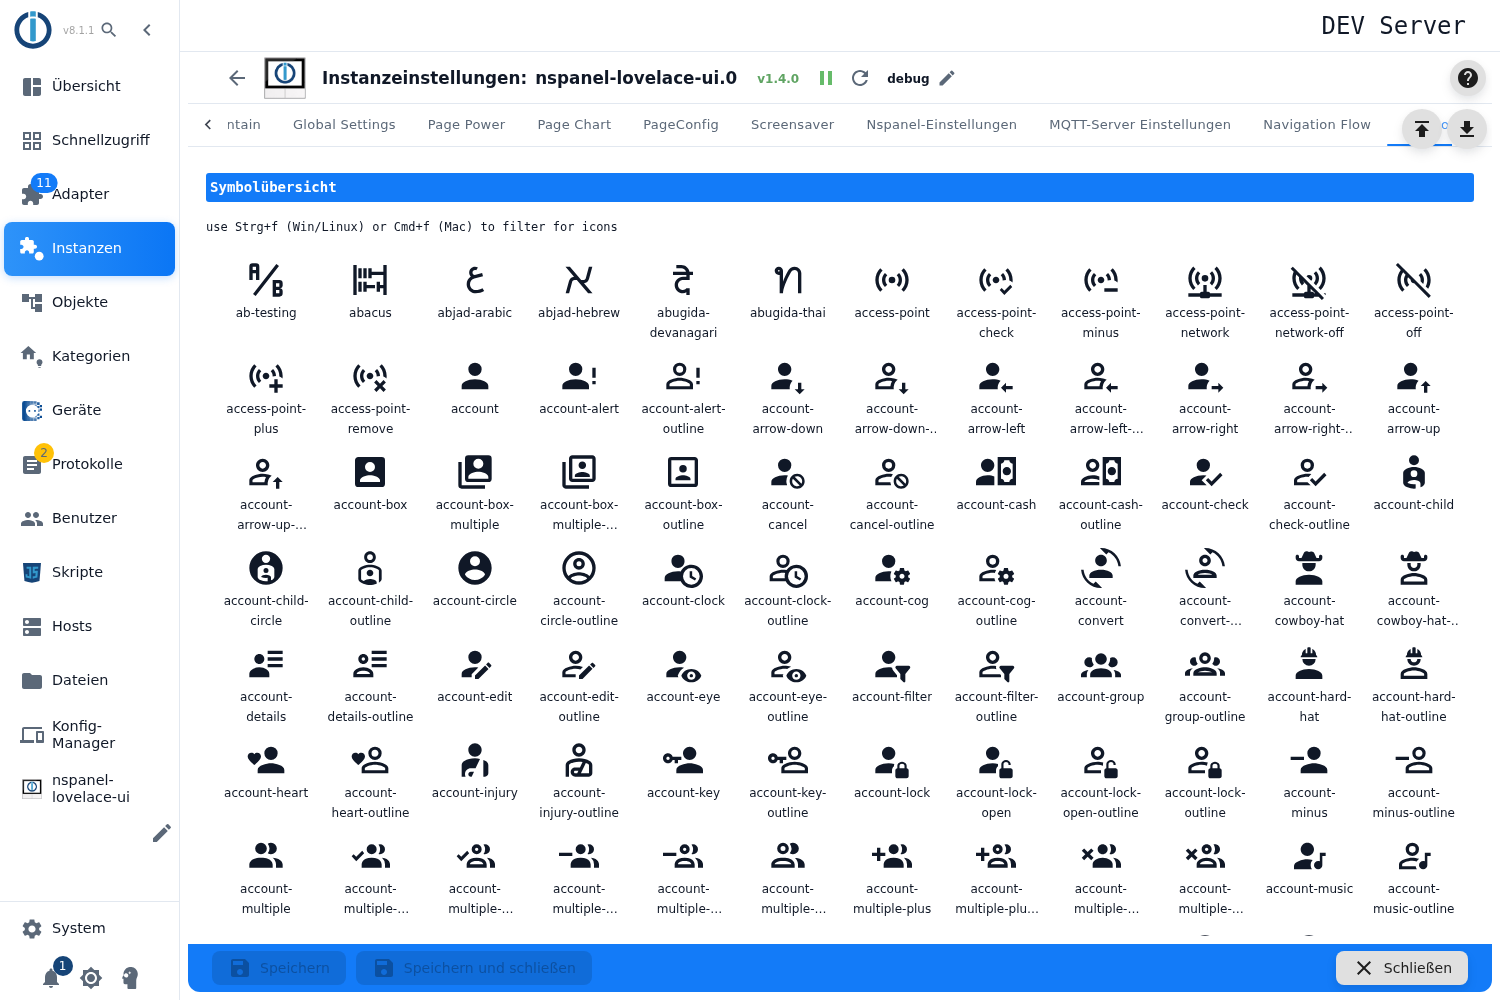
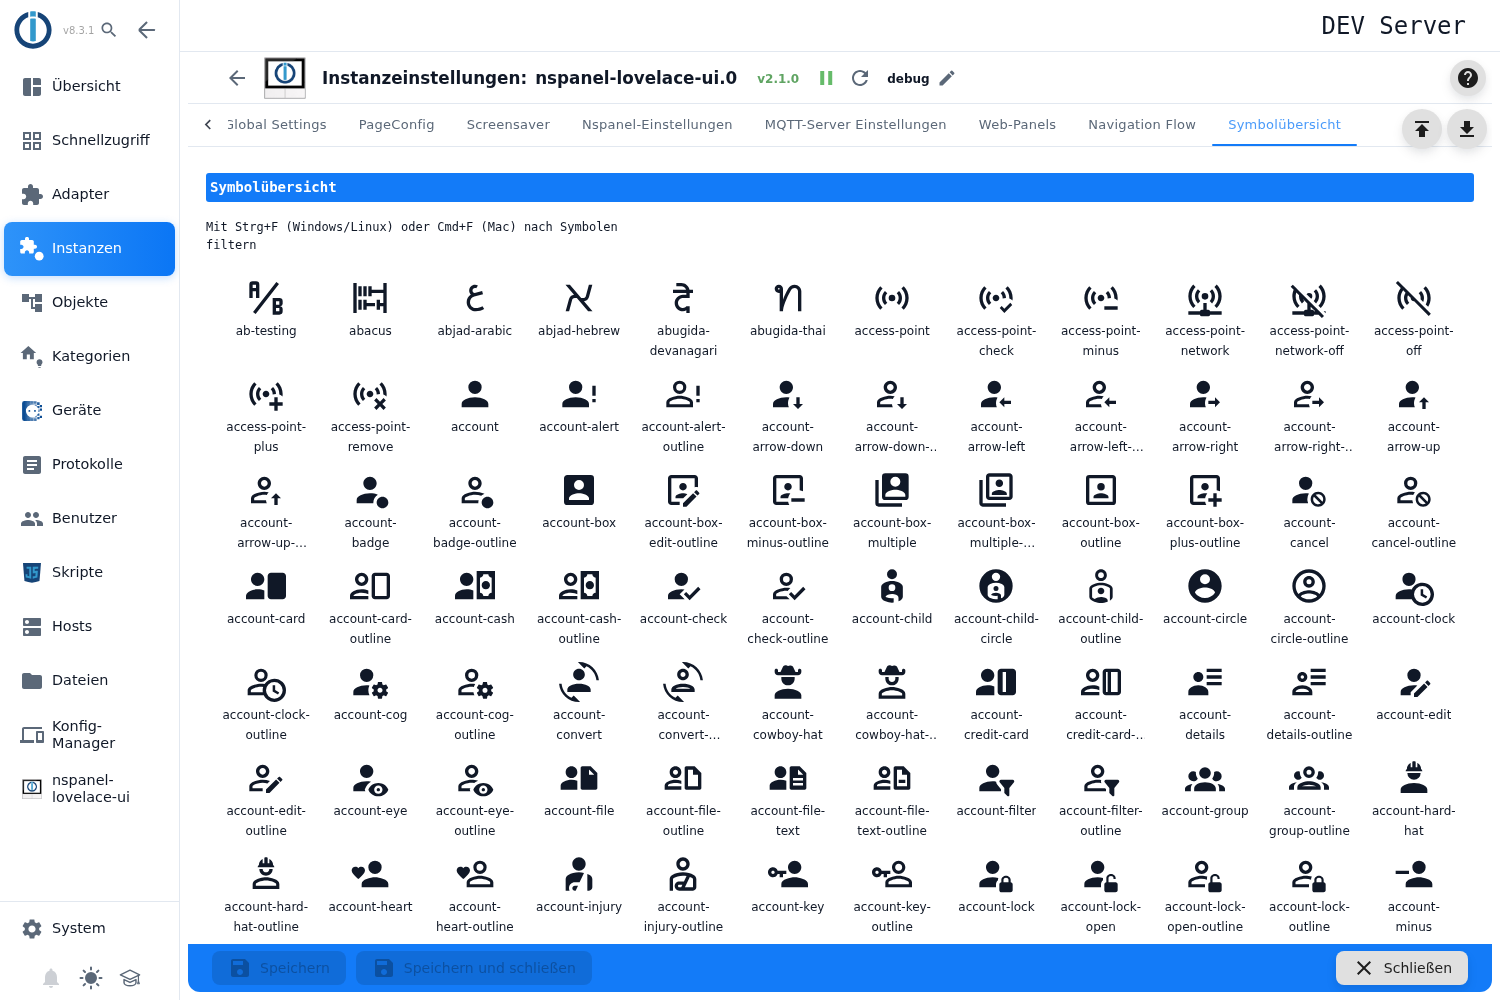
docs(pictures): new screenshots of the page editors after #851 and #855 (de/en)
Taken from the dev-server admin running `main` 1a231751.

- pageQR: the WLAN fields with WPA2 and the renamed checkbox including
  its hint.
- pageChart: both ways of the editor with the corrected labels (data
  source, database instance, data point for values from the database,
  data point for the ticks).
- pageTrash: the editor with "number of trash entries on the page".
- cardPower: the dialog of the lower house slot with the corrected label
  of the slot selection.
- iconOverview: the filter hint in German instead of English.
- tasmotaTools: the tab with the translated help button.

The picture of the note when creating a page name that the adapter
already knows is dropped: it showed the old wording, and the condition
needs a script configuration the sandbox does not have. The section
quotes the note in full, so nothing is lost.

diff --git a/doc/de/PageConfig.md b/doc/de/PageConfig.md
@@ -82,8 +82,6 @@ Dazu:
 
 ## Seiten anlegen und löschen
 
-![Der Hinweis beim Anlegen eines Namens, den der Adapter schon kennt](../Pictures/pageConfig/pageconfig-03-anlegen-hinweis.png)
-
 **Anlegen:** Seitentyp wählen, im Feld *Neue Seite* einen Namen eintragen, **+** drücken. Der Name ist die **eindeutige ID** der Seite: Unter ihm sprechen andere Seiten sie in ihren Navigationszielen an, und unter ihm wird sie von einem Pageitem mit Navigationsziel oder aus einem Skript heraus angesprungen.
 
 - `main` ist reserviert; der **+**-Knopf bleibt gesperrt und ein Hinweis nennt den Grund — die Startseite entsteht über die Markierung, nicht über den Namen.

diff --git a/doc/en/PageConfig.md b/doc/en/PageConfig.md
@@ -82,8 +82,6 @@ In addition:
 
 ## Creating and deleting pages
 
-![The note when creating a name the adapter already knows](../Pictures/pageConfig/pageconfig-03-anlegen-hinweis.png)
-
 **Create:** pick a page type, enter a name in the *New Page* field, press **+**. The name is the **unique ID** of the page: it is how other pages address it in their navigation targets, and how a page item with a navigation target or a script jumps to it.
 
 - `main` is reserved; the **+** button stays disabled and a note names the reason — the start page is made with the marker, not with the name.
